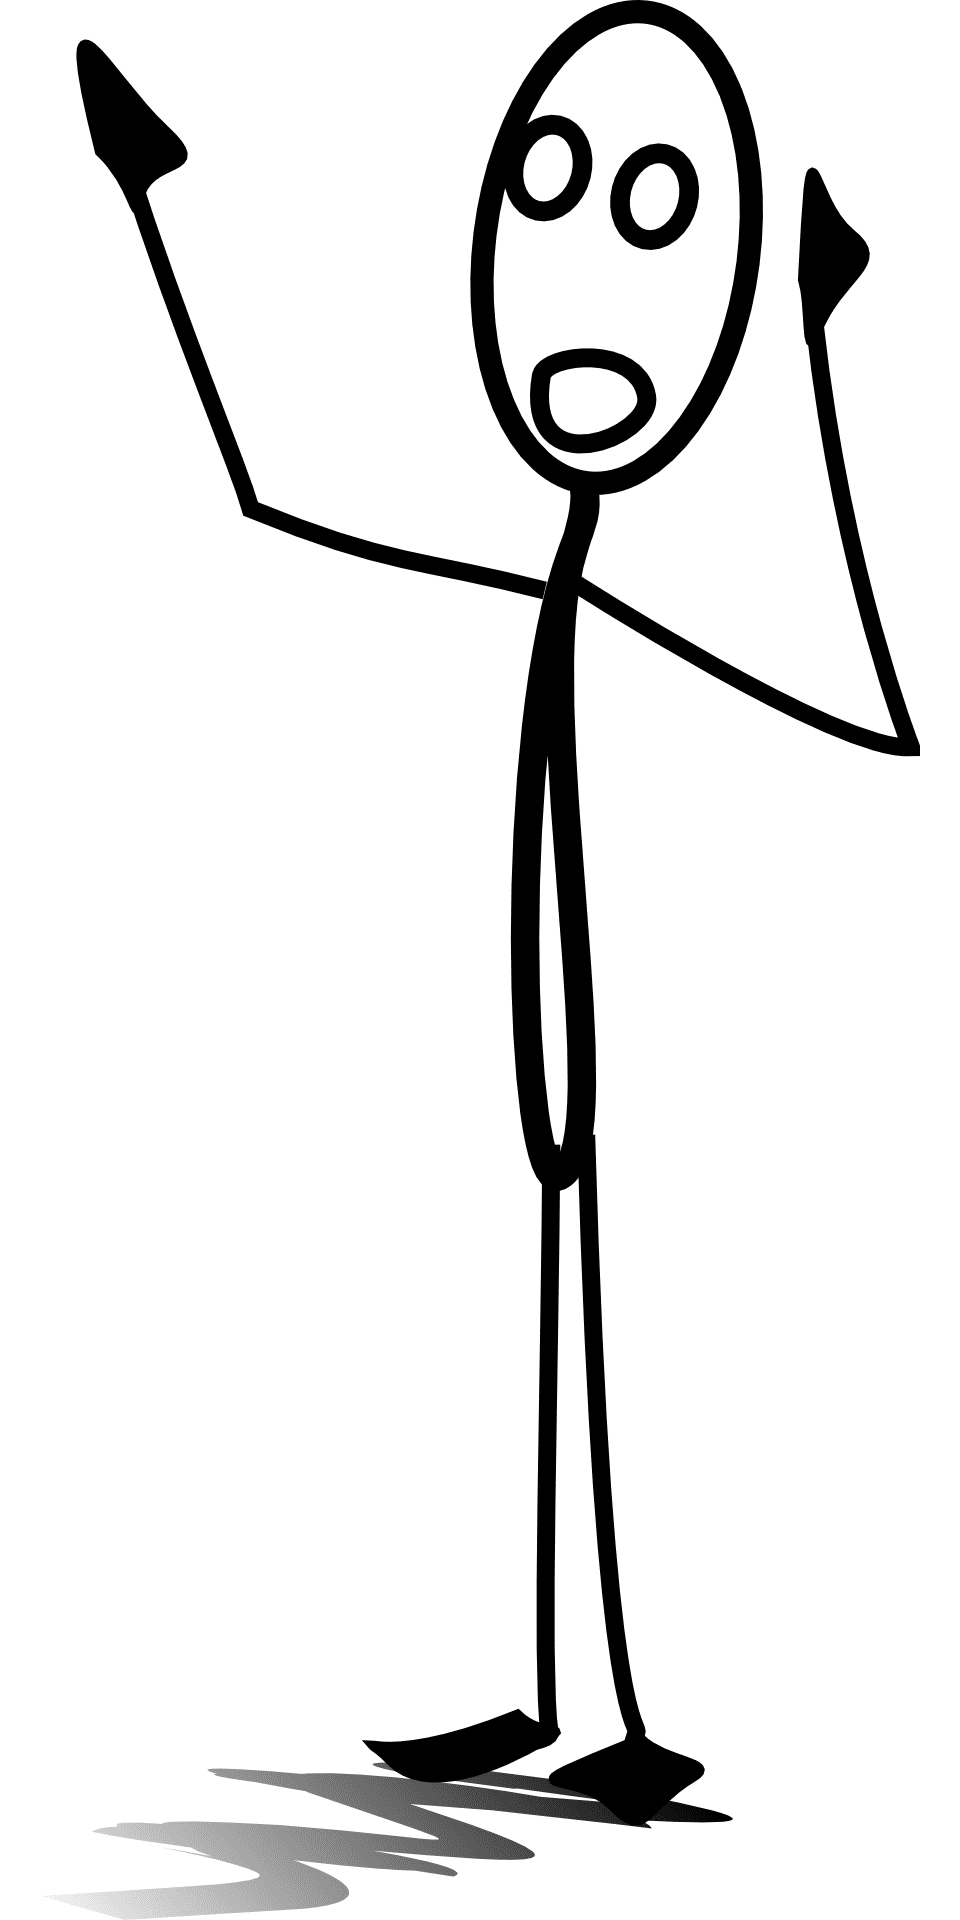
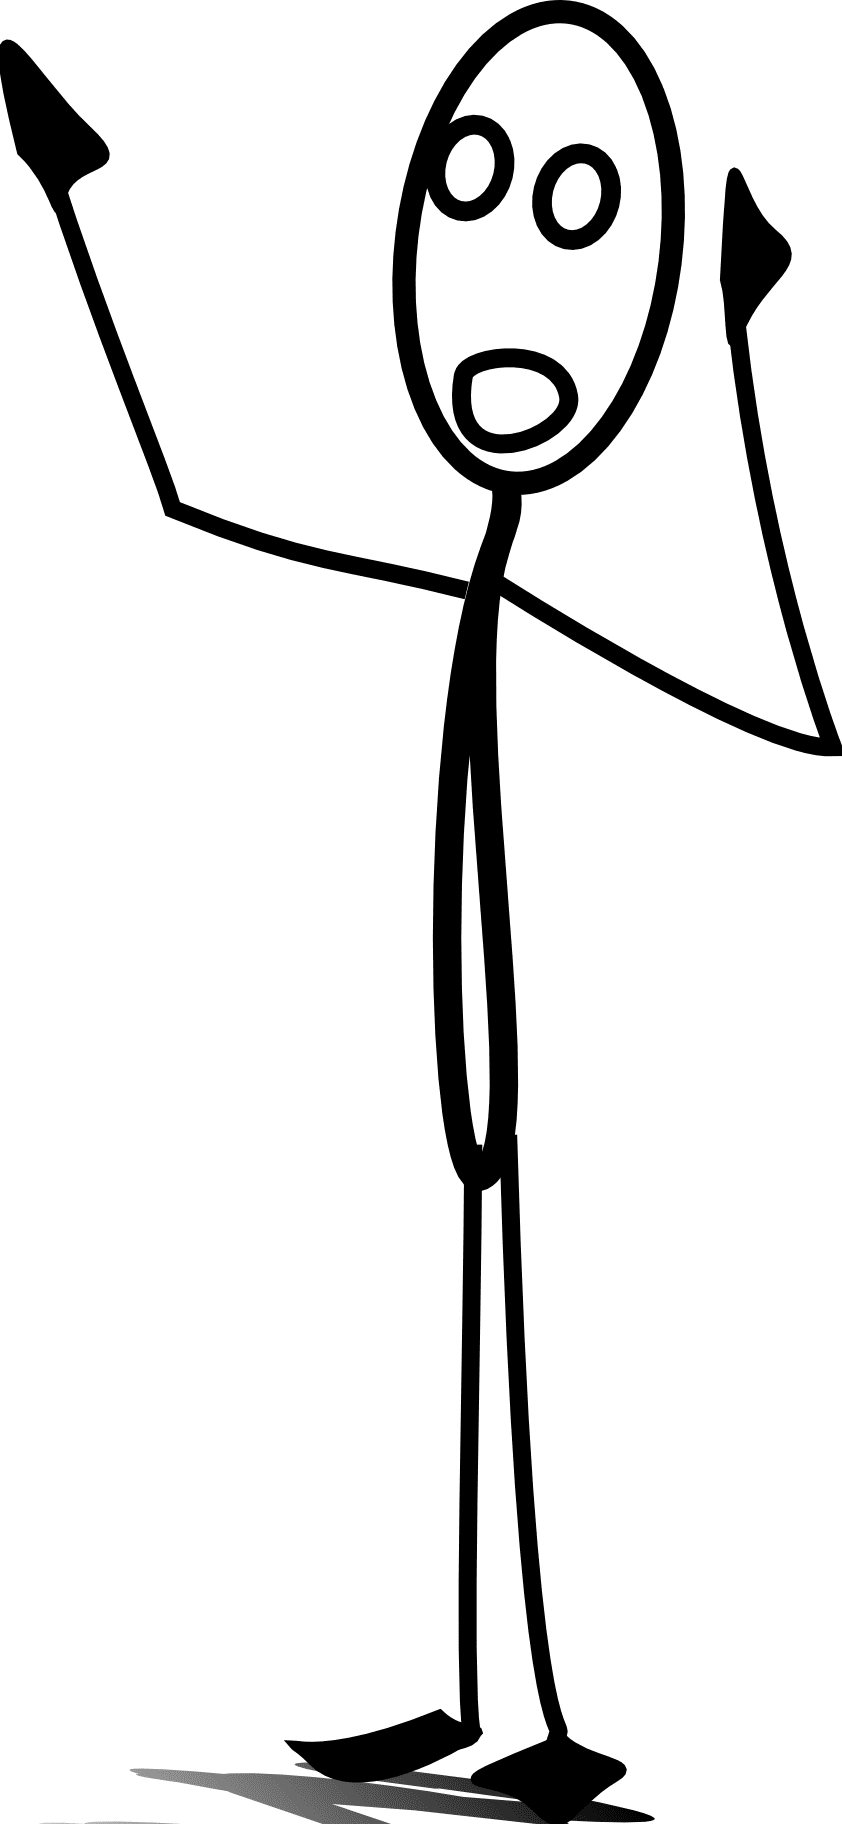
assets remasterizados y fondo basico

Changed region(s): [[0.0, 0.0, 1.0, 1.0]]

diff --git a/src/Bum Bum Klak/bumKlak.js b/src/Bum Bum Klak/bumKlak.js
@@ -12,15 +12,19 @@ export default class BumKlak extends Phaser.Scene{
 
     preload(){        
       this.load.image('atras', '/assets/juego/TruthOrDare/imagenes/VolverAtras.jpg'); // Cargamos la imagen de volver atras (provisional).
-      this.load.image('fondo', '/assets/juego/BumKlak/fondo.png'); // cargamos fondo
+      this.load.image('bocadillo', '/assets/juego/BumKlak/bocadillo.png'); // Cargamos la imagen del bocadillo
+      this.load.image('cerebro', '/assets/juego/BumKlak/cerebro.png'); // Cargamos la imagen del cerebro
+      this.load.image('corazon', '/assets/juego/BumKlak/corazon.png'); // Cargamos la imagen del corazón
+      this.load.image('escuchador', '/assets/juego/BumKlak/persona escuchadora.png'); // Cargamos la imagen del moñeco que escucha
+      this.load.image('parlanchin', '/assets/juego/BumKlak/persona parlanchina.png'); // Cargamos la imagen del moñeco que habla
     }    
     create(){
       this.atras = this.add.image(0, 0, 'atras').setOrigin(0, 0).setScale(0.1, 0.1).setInteractive(); // Añadimos la imagen de volver atras.
-      //this = this.add.image(0,0, 'fondo').setOrigin(0,0).setScale(1,1);
-      this.add.text(100, 200, 'Escena del BumBumClack',  { fill: '#0f0' });
       this.atras.on('pointerdown', (pointer) => {
         this.finalDelJuego();
       });
+      this.escuchador = this.add.image(50, 350, 'escuchador').setOrigin(0,0).setScale(1, 1);
+      this.escuchador = this.add.image(750, 350, 'parlanchin').setOrigin(0,0).setScale(0.3, 0.3);
     }
     finalDelJuego()
 {    
